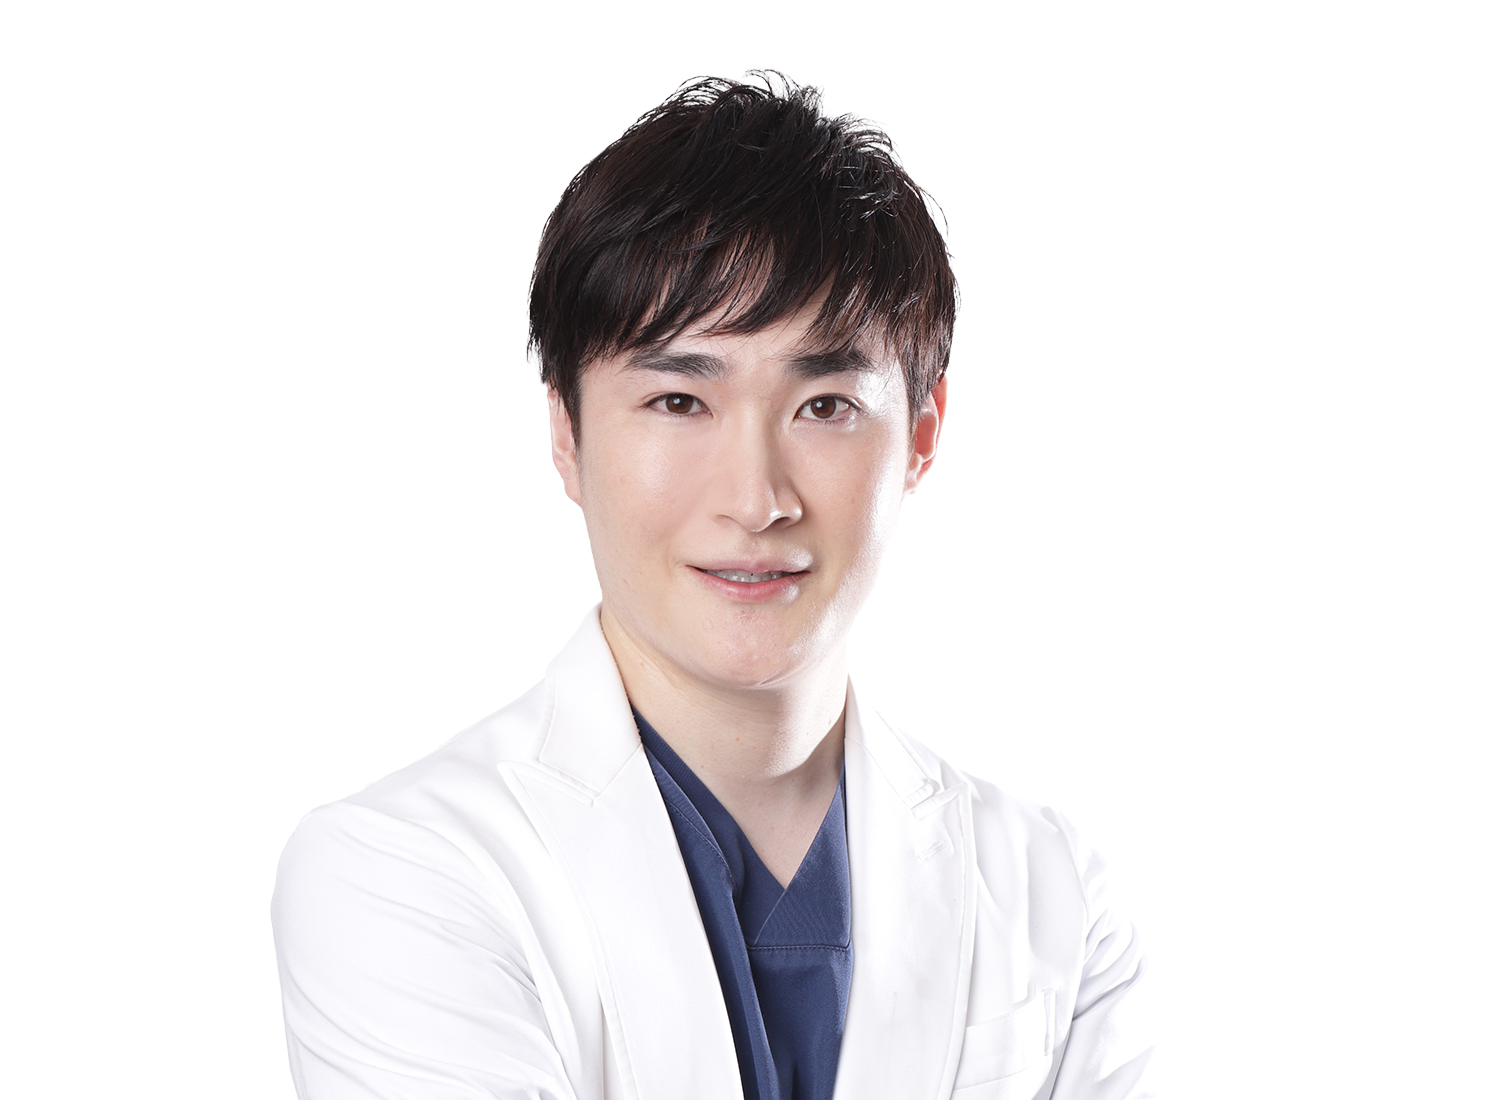
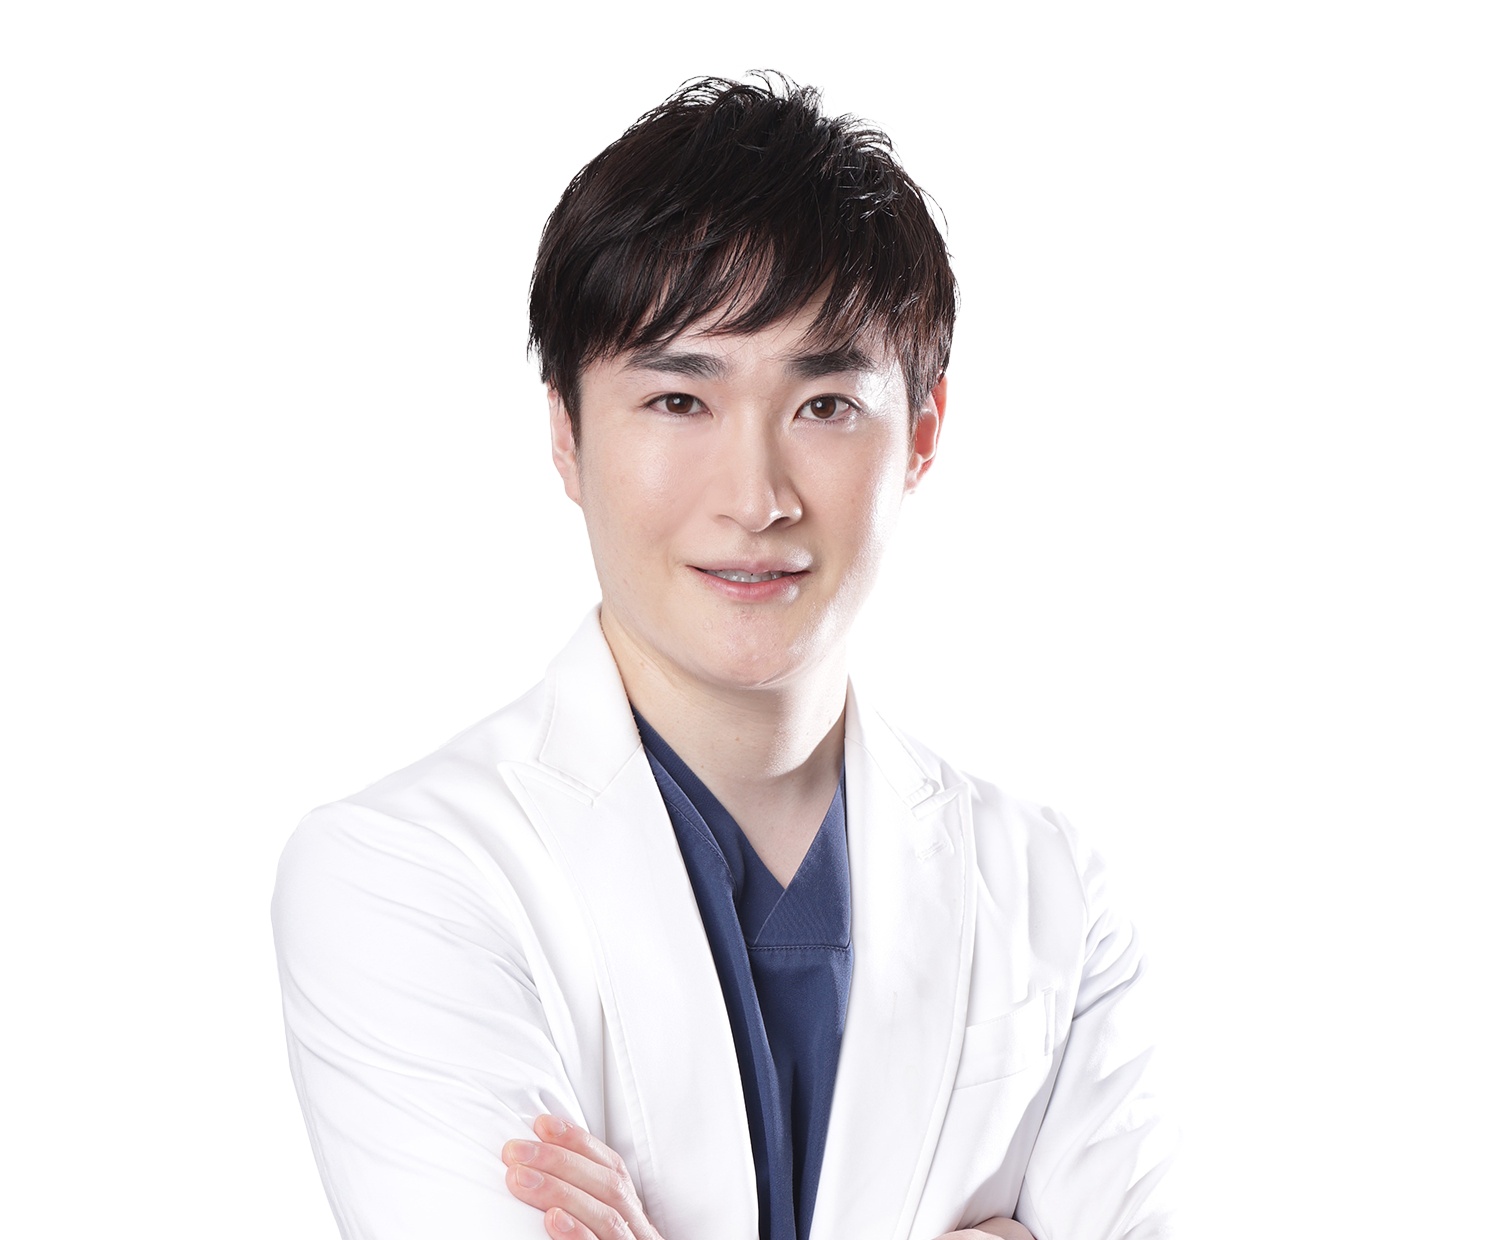
fix: バストアップトリミング再調整・objectFit:contain統一

diff --git a/pages/Home.tsx b/pages/Home.tsx
@@ -50,11 +50,11 @@ export const Home: React.FC<HomeProps> = ({ lang }) => {
   // 全写真を横長（ratio 1.1〜1.4）にトリミング済み → h-full w-auto で統一
   // horita のみ contain で全身表示（横長写真なので下部に余白が出ないよう bottom center）
   const doctorImgStyles: Record<string, React.CSSProperties> = {
-    yamamoto: { height: '100%', top: '0', width: 'auto', maxWidth: 'min(58%, 860px)', right: 'max(0px, calc((100vw - 1536px) / 2))', objectFit: 'cover', objectPosition: 'top center', transformOrigin: 'top right' },
-    horita:   { height: '100%', top: '0', width: 'auto', maxWidth: 'min(58%, 860px)', right: 'max(0px, calc((100vw - 1536px) / 2))', objectFit: 'contain', objectPosition: 'bottom center', transformOrigin: 'top right' },
-    harima:   { height: '100%', top: '0', width: 'auto', maxWidth: 'min(58%, 860px)', right: 'max(0px, calc((100vw - 1536px) / 2))', objectFit: 'cover', objectPosition: 'top center', transformOrigin: 'top right' },
-    shida:    { height: '100%', top: '0', width: 'auto', maxWidth: 'min(58%, 860px)', right: 'max(0px, calc((100vw - 1536px) / 2))', objectFit: 'cover', objectPosition: 'top center', transformOrigin: 'top right' },
-    ohashi:   { height: '100%', top: '0', width: 'auto', maxWidth: 'min(58%, 860px)', right: 'max(0px, calc((100vw - 1536px) / 2))', objectFit: 'cover', objectPosition: 'top center', transformOrigin: 'top right' },
+    yamamoto: { height: '100%', top: '0', width: 'auto', maxWidth: 'min(58%, 860px)', right: 'max(0px, calc((100vw - 1536px) / 2))', objectFit: 'contain', objectPosition: 'bottom center', transformOrigin: 'bottom right' },
+    horita:   { height: '100%', top: '0', width: 'auto', maxWidth: 'min(58%, 860px)', right: 'max(0px, calc((100vw - 1536px) / 2))', objectFit: 'contain', objectPosition: 'bottom center', transformOrigin: 'bottom right' },
+    harima:   { height: '100%', top: '0', width: 'auto', maxWidth: 'min(58%, 860px)', right: 'max(0px, calc((100vw - 1536px) / 2))', objectFit: 'contain', objectPosition: 'bottom center', transformOrigin: 'bottom right' },
+    shida:    { height: '100%', top: '0', width: 'auto', maxWidth: 'min(58%, 860px)', right: 'max(0px, calc((100vw - 1536px) / 2))', objectFit: 'contain', objectPosition: 'bottom center', transformOrigin: 'bottom right' },
+    ohashi:   { height: '100%', top: '0', width: 'auto', maxWidth: 'min(58%, 860px)', right: 'max(0px, calc((100vw - 1536px) / 2))', objectFit: 'contain', objectPosition: 'bottom center', transformOrigin: 'bottom right' },
   };
 
   return (

diff --git a/scripts/crop_bustup.py b/scripts/crop_bustup.py
@@ -1,0 +1,31 @@
+from PIL import Image
+
+base = '/home/ubuntu/sml/public/images/doctors'
+
+# バストアップトリミング設定
+# (ファイル名, オリジナルファイル, 出力ファイル, top_ratio, bottom_ratio)
+# top_ratio: 上から何%から開始するか（頭上の余白を少し残す）
+# bottom_ratio: 上から何%まで含めるか（バスト下端）
+crops = [
+    # yamamoto: 1525x3302 → バスト下端は約y=1700（全体の51%）
+    ('yamamoto', 'yamamoto_original.png', 'yamamoto.png', 0.0, 0.52),
+    # harima: 1500x2000 → バスト下端は約y=1200（全体の60%）
+    ('harima', 'harima_original.png', 'harima.png', 0.0, 0.62),
+    # shida: 1400x1800 → バスト下端は約y=1200（全体の67%）
+    ('shida', 'shida_original.png', 'shida.png', 0.0, 0.68),
+    # ohashi: 581x885 → バスト下端は約y=620（全体の70%）
+    ('ohashi', 'ohashi_original.webp', 'ohashi.webp', 0.0, 0.72),
+]
+
+for name, src, dst, top_r, bot_r in crops:
+    img = Image.open(f'{base}/{src}')
+    w, h = img.size
+    top = int(h * top_r)
+    bottom = int(h * bot_r)
+    cropped = img.crop((0, top, w, bottom))
+    new_w, new_h = cropped.size
+    ratio = new_w / new_h
+    print(f'{name}: {w}x{h} → {new_w}x{new_h} (ratio={ratio:.2f})')
+    cropped.save(f'{base}/{dst}')
+
+print('Done!')
